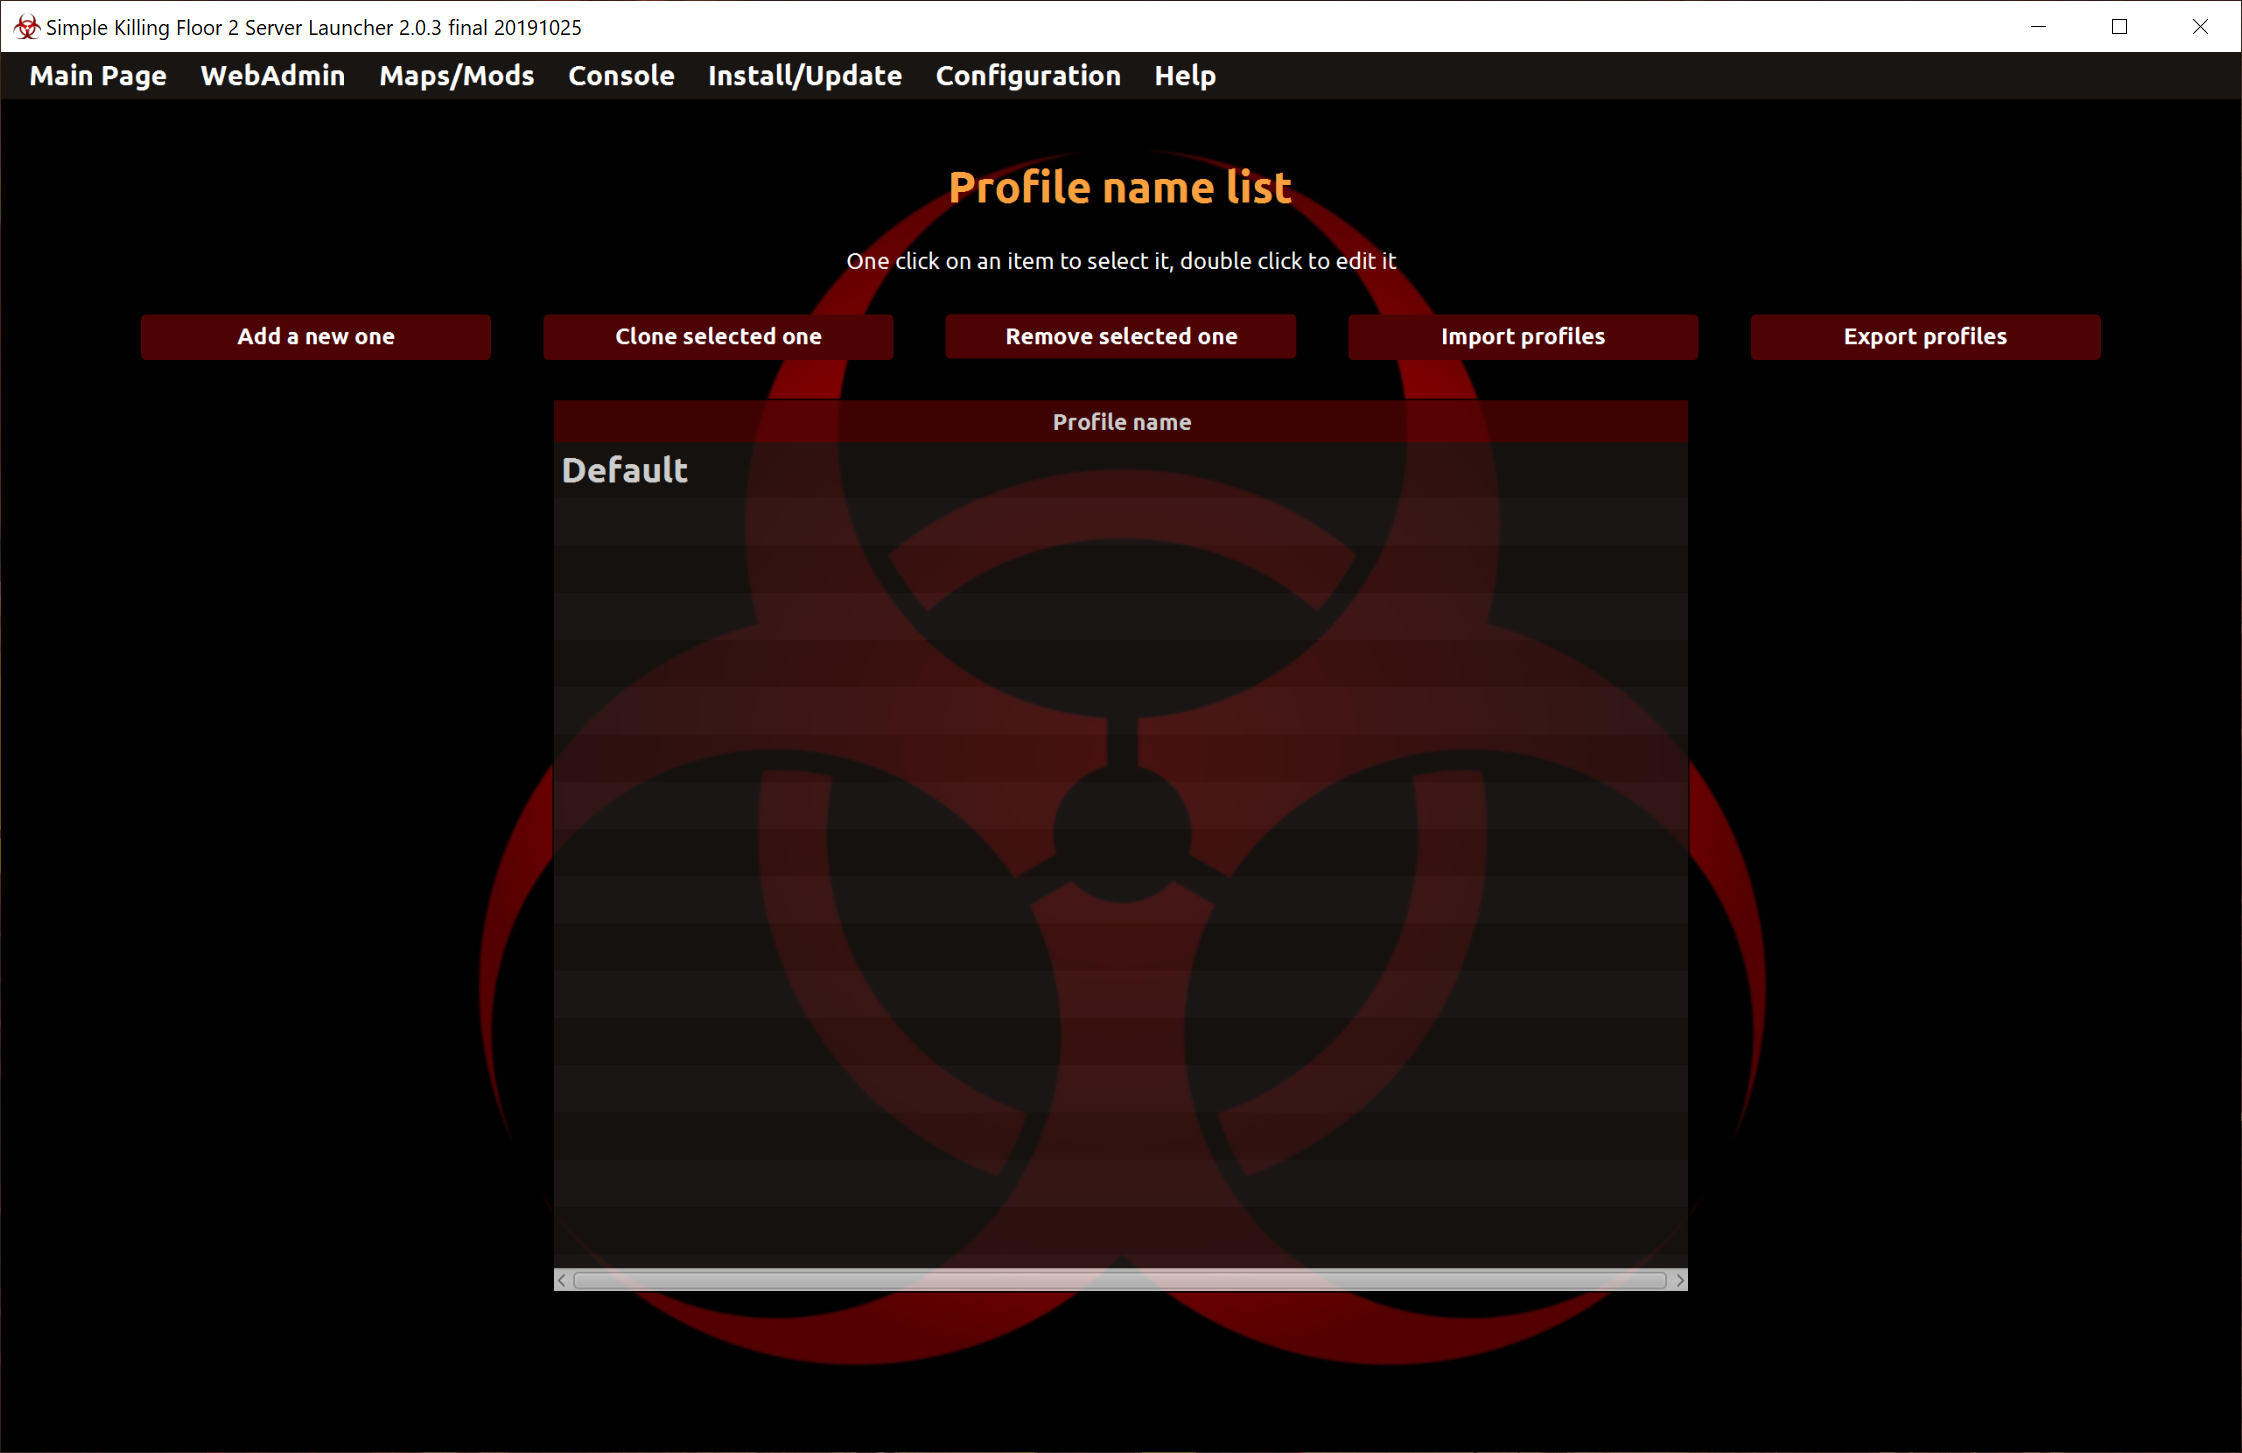
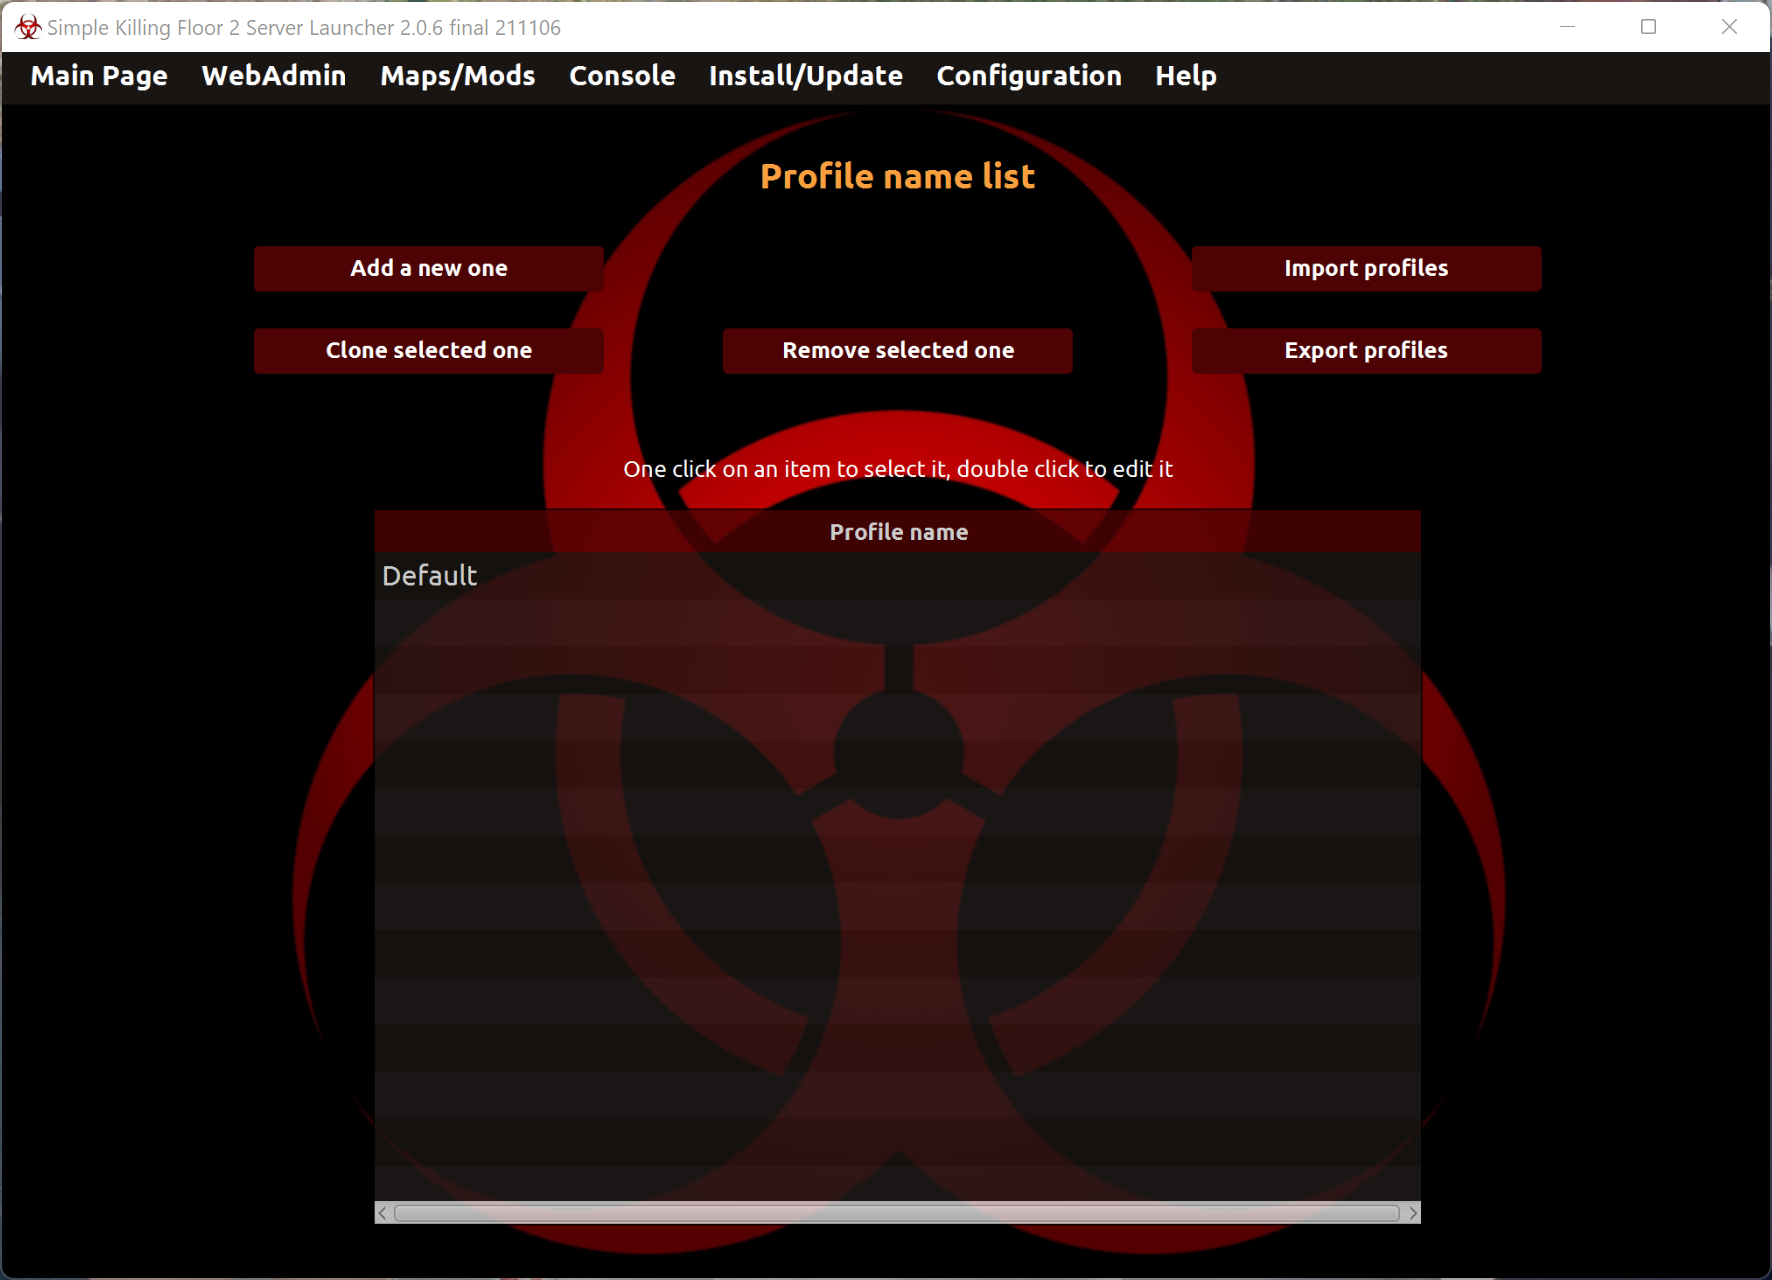
Updates in documentation

Changed region(s): [[0.0, 0.0, 1.0, 1.0], [0.0, 0.9688, 0.031, 1.0]]

diff --git a/doc/es/MAPAS-PERSONALIZADOS.md b/doc/es/MAPAS-PERSONALIZADOS.md
@@ -11,8 +11,10 @@ En la página Mapas/Mods puedes gestionar mapas personalizados, mods y mapas ofi
 * _Menú acciones_: Tiene varias opciones para manejar mapas personalizados y oficiales.
   * _Añadir nuevos mapas por URL/Id WorkShop_: Permite añadir nuevos mapas personalizados y mods desde el WorkShop de Steam mediante id de WorkShop o URL. Si hay más de un elemento, usa comas como separador.
   * _Buscar mapas en WorkShop_: Permite navegar en las páginas de WorkShop buscando nuevos mapas y mods. Luego puedes seleccionar cuál de ellos añadir al lanzador.
+  * _Editar los mapas seleccionados_: Permite editar todos los mapas y mods previamente seleccionados.
   * _Elimina los mapas seleccionados_: Permite eliminar todos los mapas y mods previamente seleccionados.
   * _Importa mapas del servidor_: Permite importar todos los mapas personalizados, mods y mapas oficiales del servidor al lanzador. Sólamente los elementos que no está aún presentes en el lanzador.
+  * _Ordenar mapas por alias_: Permite ordenar los mapas alfabéticamente por alias (ascendente o descendente).
   * _Ordenar mapas por nombre_: Permite ordenar los mapas alfabéticamente por nombre (ascendente o descendente).
   * _Ordenar mapas por fecha de lanzamiento_: Permite ordenar los mapas por fecha de lanzamiento (ascendente or descendente).
   * _Ordenar mapas por fecha de importación_: Permite ordenar los mapas por fecha de importación al lanzador (ascendente or descendente).
@@ -24,8 +26,17 @@ En la página Mapas/Mods puedes gestionar mapas personalizados, mods y mapas ofi
 
 * _Barra de columnas_: Permite cambiar el tamaño de las miniaturas de los mapas según un número de columnas determinado. 
 
-__Imágen de búsqueda en WorkShop__
+## Página de búsqueda en WorkShop
+
+En la página de WorkShop puedes navegar a través de páginas de mapas y mods para encontrar nuevos y añadirlos al lanzador si así lo deseas.
+
 ![Launcher screenshot](../images/screenshot05.png)
+
+## Página de editar mapa
+
+En la página de "Editar mapa" puedes editar parte de la información como "alias", "imágen de previsualización", "fecha de lanzamiento" y enlace a la "página de información".
+
+![Launcher screenshot](../images/screenshot12.png)
 
 ---
 Back to main page [here](../../LEEME.md).

diff --git a/doc/CUSTOM-MAPS.md b/doc/CUSTOM-MAPS.md
@@ -11,8 +11,10 @@ Under Maps/Mods page you can manage custom maps, mods and official maps present 
 * _Actions menu_: It has several options to manage custom or official maps.
   * _Add new maps by URL/Id WorkShop_: It allows to add new custom maps and mods from Steam's WorkShop by WorkShop's Id or URL. If more than one element, use comma as separator.
   * _Search maps in WorkShop_: It allows to browse in Workshop's pages looking for new maps and mods. Then you can choose wich of them add to the launcher.
+  * _Edit selected maps_: It allows to edit all maps and mods previously selected.
   * _Delete selected maps_: It allows to delete all maps and mods previously selected.
   * _Import maps from server_: It allows to import all custom maps, mods and official maps from the server to the launcher. Only the elements not present already in the launcher.
+  * _Order maps by alias_: It allows to sort the maps alphabetically by alias (ascendent or descendent).
   * _Order maps by name_: It allows to sort the maps alphabetically by name (ascendent or descendent).
   * _Order maps by release date_: It allows to sort the maps by release date (ascendent or descendent).
   * _Order maps by imported date_: It allows to sort the maps by imported date to the launcher (ascendent or descendent).
@@ -24,8 +26,17 @@ Under Maps/Mods page you can manage custom maps, mods and official maps present 
 
 * _Columns slider_: It allows to change the thumbnail size of the maps by the specific number of columns.
 
-__Search in WorkShop image__
+## Search in WorkShop page
+
+Under WorkShop page you can navigate through map and mod pages to find new ones and add them to the launcher if you want. 
+
 ![Launcher screenshot](images/screenshot05.png)
+
+## Edit map page
+
+Under "Edit Map" page you can edit some map information like "alias", "preview image", "release date" and link to the "information page".
+
+![Launcher screenshot](images/screenshot12.png)
 
 ---
 Back to main page [here](../README.md).

diff --git a/LEEME.md b/LEEME.md
@@ -6,10 +6,11 @@ _[Click here to open documentation in english | Pulse aquí para abrir documenta
 Aplicación para personalizar y lanzar fácilmente un servidor de Killing Floor 2 a través de una interfaz visual en lugar de editar ficheros batch o de configuración del servidor. Ha sido desarrollado en Java y la interfaz es compatible con los S.O. Windows y Linux.
 
 ```
-Versión: 2.0.5 final
+Versión: 2.0.6 final
 S.O. soportados: Microsoft Windows y Linux (Ubuntu/Debian)
-Autor: César Rodríguez González
+Desarrollado por: César Rodríguez González
 Idiomas: Inglés, Español, Francés
+Traducción a inglés y español: César Rodríguez González
 Traducción a francés por: -foG.Nox
 ```
 

diff --git a/README.md b/README.md
@@ -6,10 +6,11 @@ _[Click here to open documentation in spanish | Pulse aquí para abrir documenta
 Application to easily customize and launch a Killing Floor 2 server through a visual interface instead of edditing batch files or server's config files. It has been developed with Java, so the interface is compatible on Windows and Linux OS.
 
 ```
-Version: 2.0.5 final
+Version: 2.0.6 final
 Supported OS: Microsoft Windows and Linux (Ubuntu/Debian)
-Author: César Rodríguez González
+Developed by: César Rodríguez González
 Languages: English, Spanish, French
+Translation to english and spanish: César Rodríguez González
 Translation to french by: -foG.Nox
 ```
 
